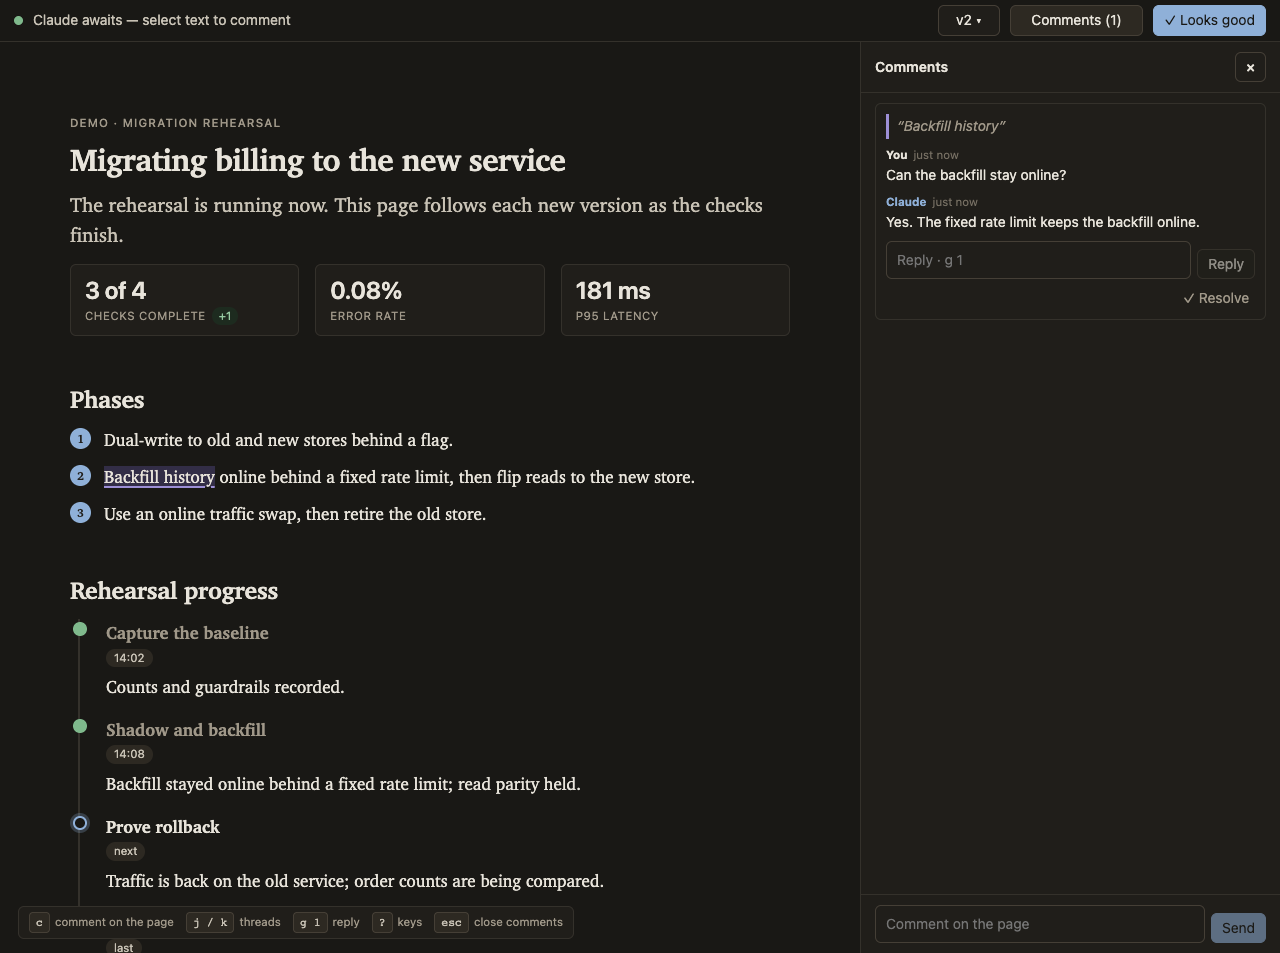
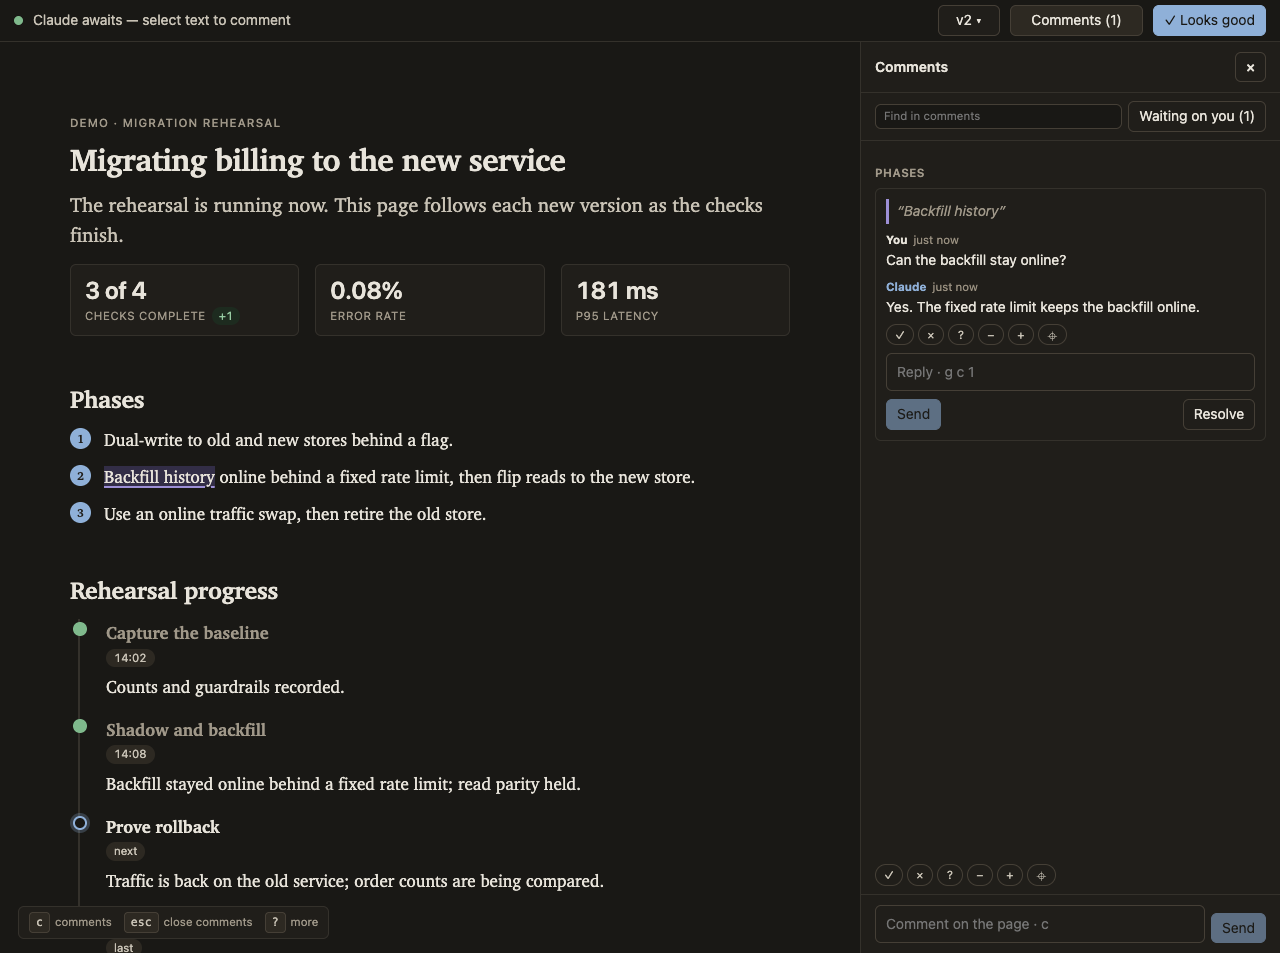
Mention the one-press answer in the README and re-record the demo with the bar
Claude-Session: https://claude.ai/code/session_01Dv6EeAAAHvuuo2rx2p73Wt

diff --git a/README.md b/README.md
@@ -11,9 +11,9 @@ dashboard that keeps up while a long job runs. When the project needs a widget t
 doesn't exist, the agent writes one, and the same theme and checks cover it.
 
 Underneath is a messaging and collaboration bus. Select any line and comment on it
-like a shared doc, or drag a card, or rewrite a draft in your own words: it all
-reaches the session as structured events, and the agent answers in the margin and
-ships a revised version. The browser follows along on its own. Leaf is a plugin —
+like a shared doc — or answer it with one press, `ok` `no` `lost` `cut` `more` —
+or drag a card, or rewrite a draft in your own words: it all reaches the session as
+structured events, and the agent answers in the margin and ships a revised version. The browser follows along on its own. Leaf is a plugin —
 Claude Code and Codex so far.
 
 ![leaf demo](docs/demo.gif)
